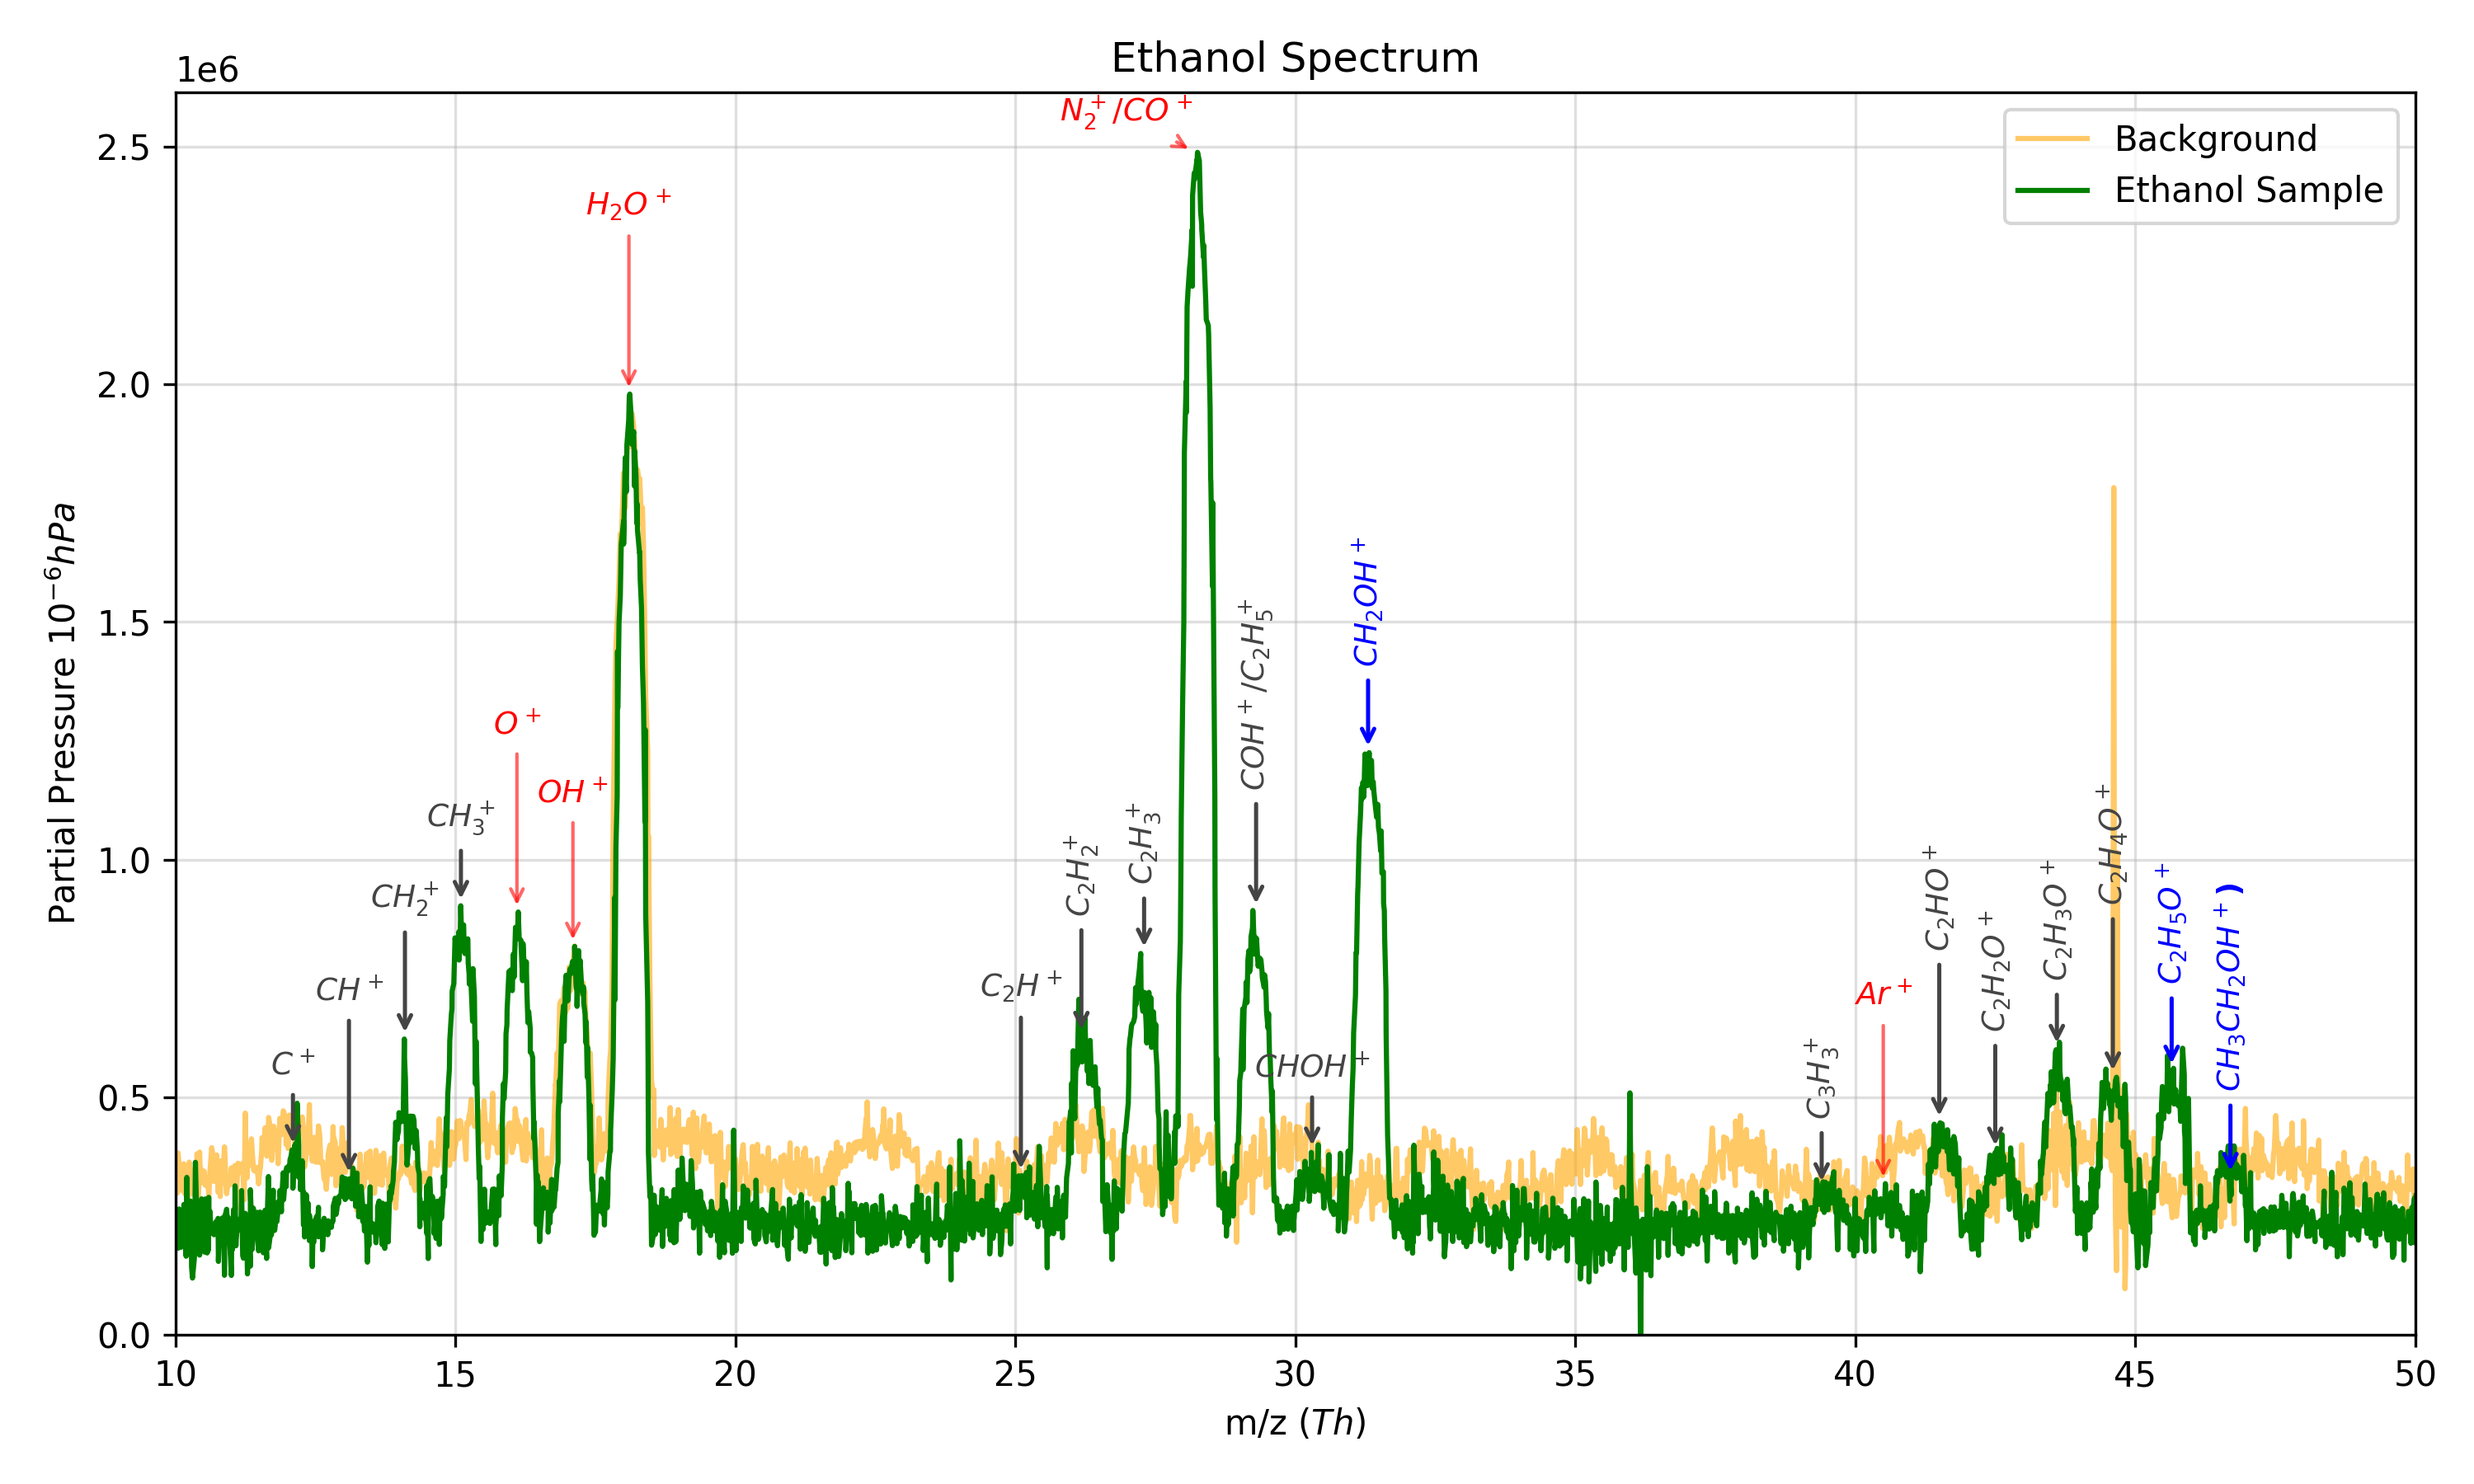
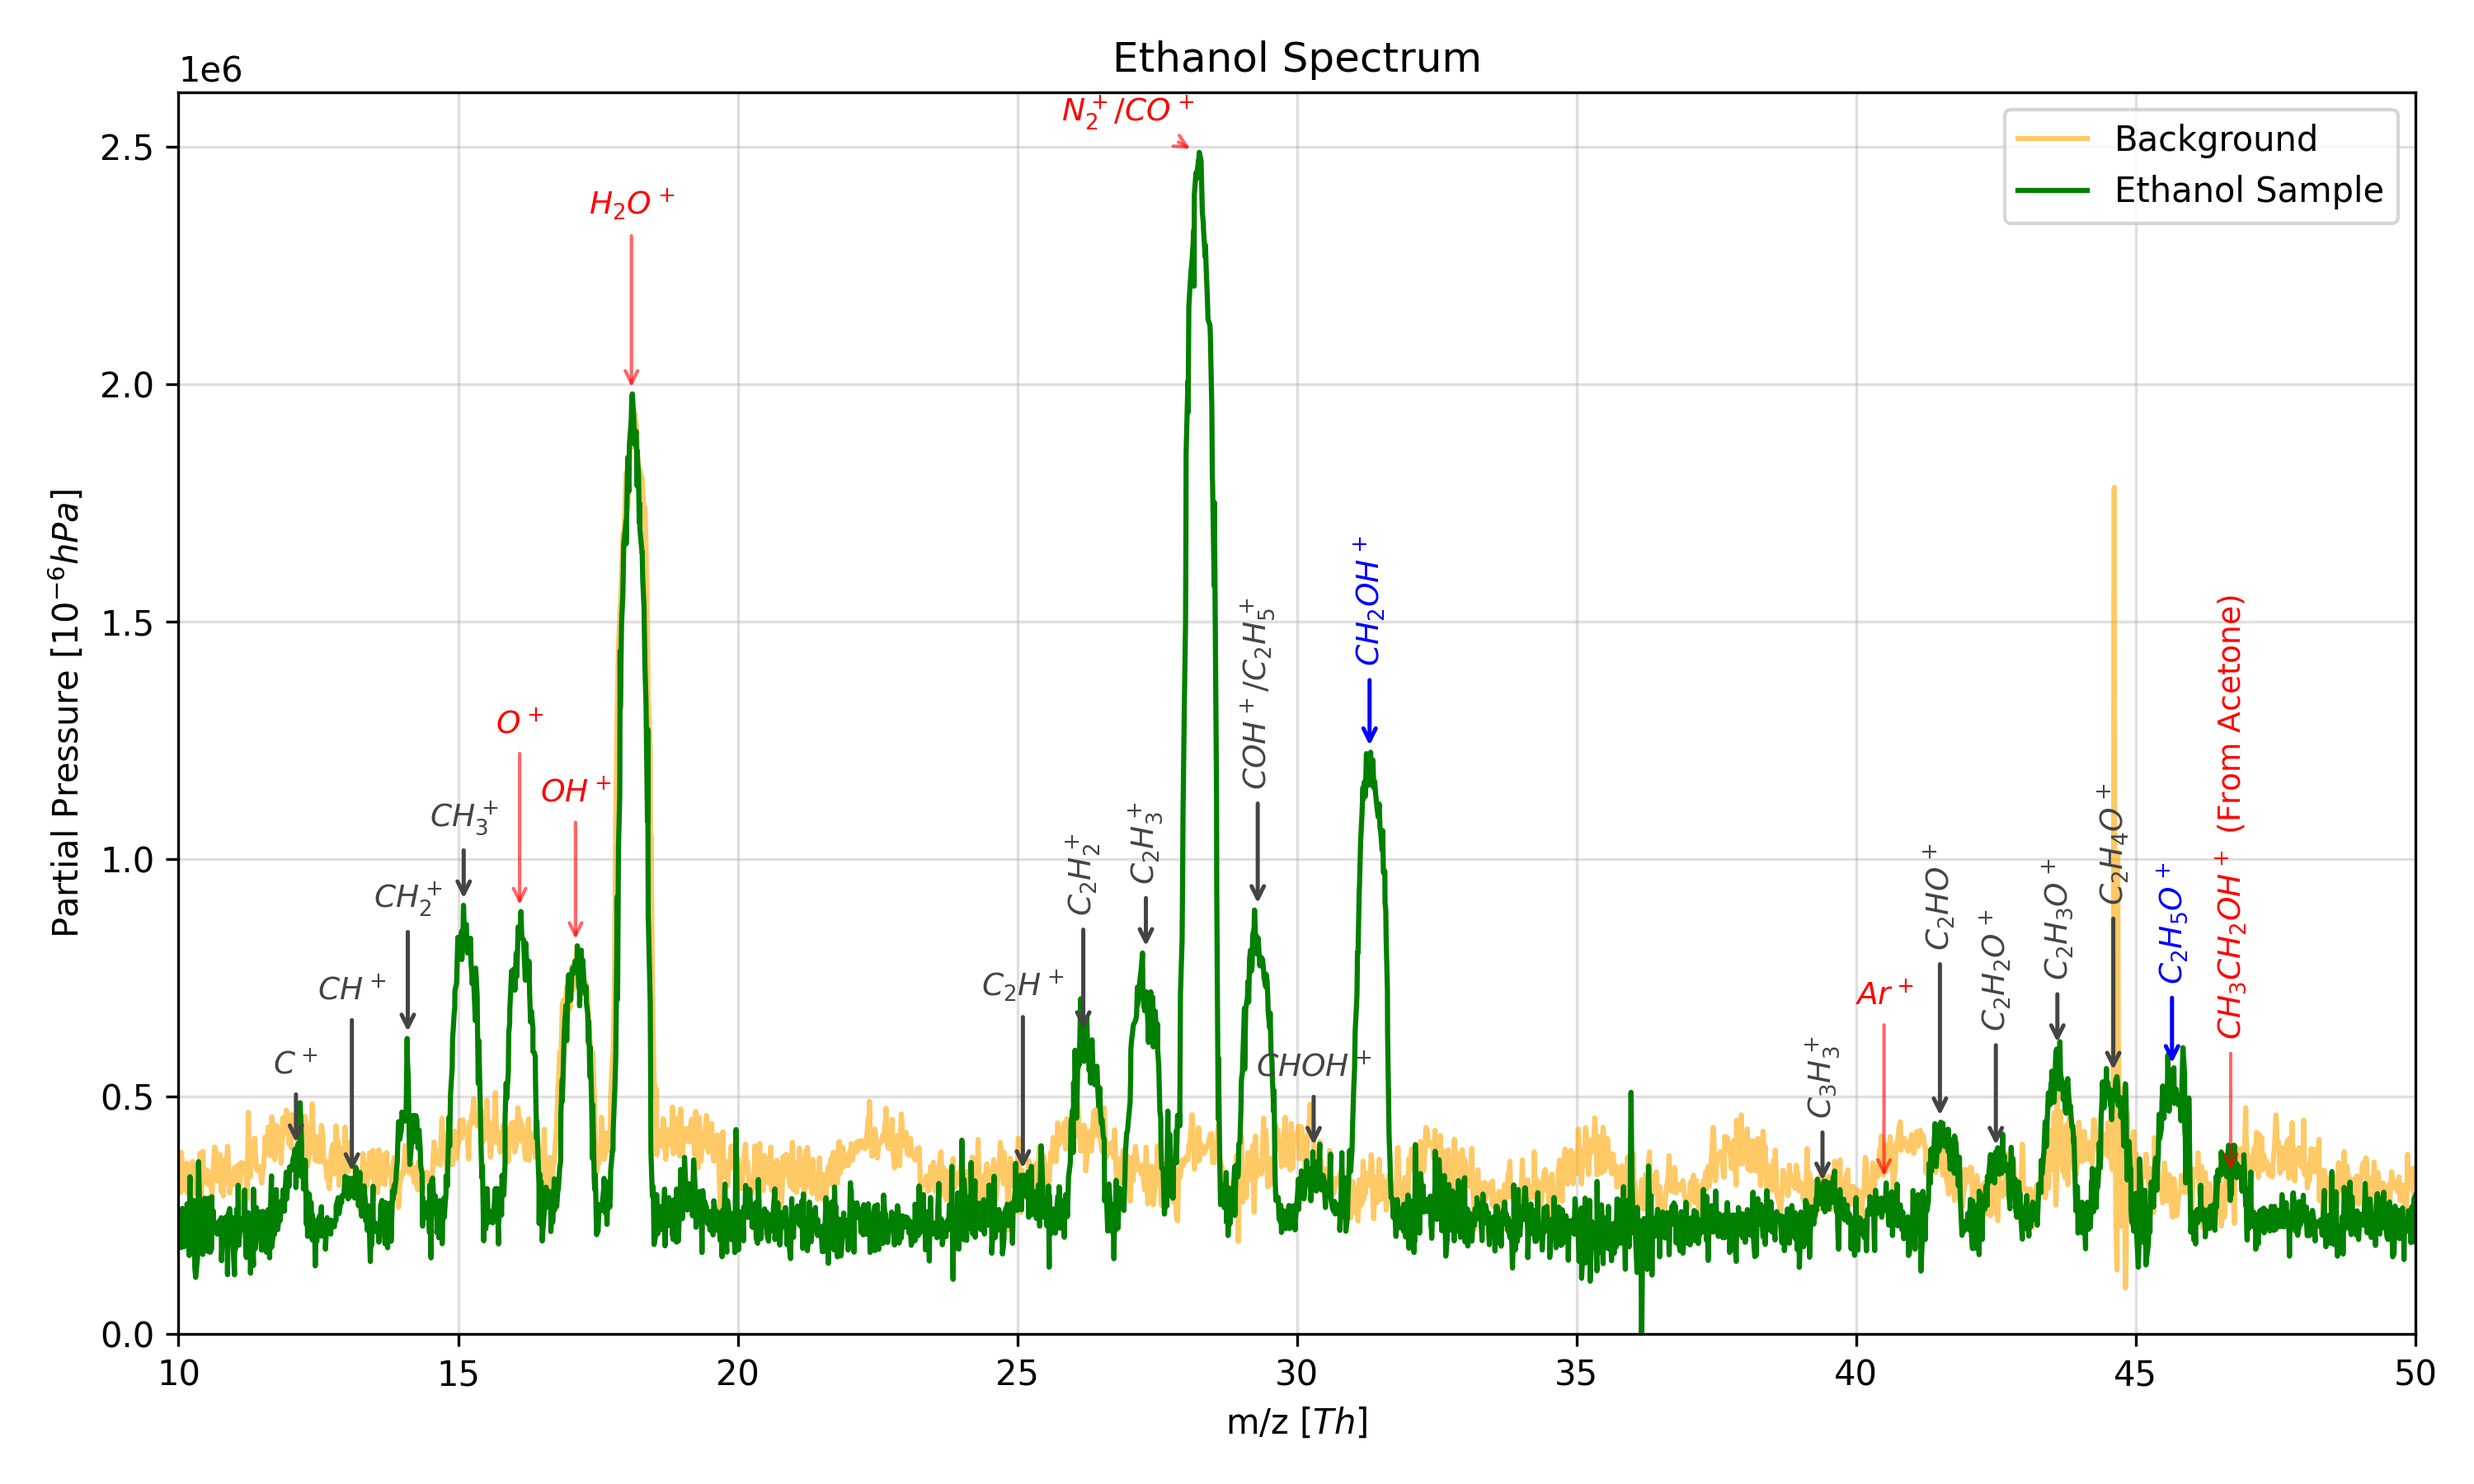
updated plots to use better labeling

diff --git a/resources/task_5_6.py b/resources/task_5_6.py
@@ -6,18 +6,63 @@ from utils import load_spectrum
 
 # Import Files
 FILES = [
-    ('$U_{FA}=112.9$' ,'FP10_qmf260114_018_air_sp10_em-10_p15e-5_ufa1129.txt', 112.9),
-    ('$U_{FA}=98.1$' ,'FP10_qmf260114_019_air_sp10_em-10_p15e-5_ufa981.txt', 98.1),
-    ('$U_{FA}=83.0$' ,'FP10_qmf260114_020_air_sp10_em-10_p15e-5_ufa830.txt', 83.0),
-    ('$U_{FA}=62.9$' ,'FP10_qmf260114_021_air_sp10_em-10_p15e-5_ufa629.txt', 62.9),
-    ('$U_{FA}=43.1$' ,'FP10_qmf260114_022_air_sp10_em-10_p15e-5_ufa431.txt', 43.1),
-    ('$U_{FA}=23.1$' ,'FP10_qmf260114_023_air_sp10_em-10_p15e-5_ufa231.txt', 23.1),
-    ('$U_{FA}=3.0$' ,'FP10_qmf260114_024_air_sp10_em-10_p15e-5_ufa30.txt', 3.0),
+    ('$U_{FA}=112.9, U_{B}=$' ,'FP10_qmf260114_018_air_sp10_em-10_p15e-5_ufa1129.txt', 112.9),
+    ('$U_{FA}=98.1, U_{B}=$' ,'FP10_qmf260114_019_air_sp10_em-10_p15e-5_ufa981.txt', 98.1),
+    ('$U_{FA}=83.0, U_{B}=$' ,'FP10_qmf260114_020_air_sp10_em-10_p15e-5_ufa830.txt', 83.0),
+    ('$U_{FA}=62.9, U_{B}=$' ,'FP10_qmf260114_021_air_sp10_em-10_p15e-5_ufa629.txt', 62.9),
+    ('$U_{FA}=43.1, U_{B}=$' ,'FP10_qmf260114_022_air_sp10_em-10_p15e-5_ufa431.txt', 43.1),
+    ('$U_{FA}=23.1, U_{B}=$' ,'FP10_qmf260114_023_air_sp10_em-10_p15e-5_ufa231.txt', 23.1),
+    ('$U_{FA}=3.0, U_{B}=$' ,'FP10_qmf260114_024_air_sp10_em-10_p15e-5_ufa30.txt', 3.0),
 ]
+
+# Constants
+GAIN = 1e-10
+U_FR = 113 # Volts
+
 
 def run_acceleration_overlay():
     print("--- TASK 5.6: Acceleration Overlay ---")
 
-U_FR = 113 # Volts
+    plt.figure(figsize=(10, 6))
 
-u_b = U_FR - u_fa
+
+    for label, filename, u_fa in FILES:
+        # Calculate U_B
+        u_b = U_FR - u_fa
+
+
+        # Add U_B to label
+        label = label + f"{u_b:.1f}"
+
+        # Create the path
+        path = os.path.join(DATA_DIR, filename)
+        
+        # Load Data
+        m, i_raw = load_spectrum(path)
+        
+        if len(m) == 0:
+            print(f"Warning: Empty file {filename}")
+            continue
+        
+        i_amps = i_raw * GAIN
+        ground_level = np.percentile(i_amps, 10)
+        i_normalized = i_amps - ground_level
+
+        plt.plot(m, i_normalized, label=label, lw=1.2, alpha=0.8)
+
+        # Formatting
+    plt.xlabel('m/z $[Th]$')
+    plt.ylabel('Partial Pressure $[10^{-6}hPa]$')
+    plt.xlim(10,48)
+    plt.ylim(0)
+    plt.legend()
+    plt.grid(True, which="both", ls="-", alpha=0.4)
+    plt.tight_layout()
+    
+    save_path = 'task_5_6_acceleration_overlay.png'
+    plt.savefig(save_path, dpi=300)
+    print(f"  > Saved: {save_path}")
+    plt.show()
+
+if __name__ == "__main__":
+    run_acceleration_overlay()

diff --git a/resources/task_5_2.py b/resources/task_5_2.py
@@ -27,7 +27,7 @@ def run_task_5_2():
     # 1. Main Acetone Peaks (Parent + Base + Methyl)
     # These get prominent labels (Black, bold)
     peaks = [
-        (59.0, '$M^+$'),             # Acetone Parent (CH3-CO-CH3+)
+        (59.0, '$CH_3COCH_3^+ (M^+)$'),             # Acetone Parent (CH3-CO-CH3+)
         (43.6, '$CH_3CO^+$'),        # Acetone Base Peak
         (15.1, '$CH_3^+$')           # Methyl Group
     ]
@@ -71,7 +71,7 @@ def run_task_5_2():
                 txt, 
                 xy=(mass, h), 
                 color='blue',
-                xytext=(-10, 30),              # Position text 30 points above the peak
+                xytext=(-30, 30),              # Position text 30 points above the peak
                 textcoords='offset points',  # Use relative offset instead of absolute scaling
                 arrowprops=dict(
                     arrowstyle='->',         # Slimmer, cleaner arrow head
@@ -126,8 +126,8 @@ def run_task_5_2():
     plt.xlim(10, 60)
     plt.ylim(0)
     plt.title('Acetone Spectrum')
-    plt.xlabel('m/z ($Th$)')
-    plt.ylabel('Partial Pressure $10^{-6}hPa$')
+    plt.xlabel('m/z $[Th]$')
+    plt.ylabel('Partial Pressure $[10^{-6}hPa]$')
     plt.legend()
     plt.grid(True, alpha=0.5)
     plt.tight_layout()

diff --git a/Evaluation/Evaluation_QMS.tex b/Evaluation/Evaluation_QMS.tex
@@ -655,7 +655,13 @@ The values from Table~\ref{tab:fwhm_results} were plotted for linear analysis (F
   \caption{Comparison of mass resolution trends. Lower resolution settings (Res 2, 3) exhibit a strong slope ($\Delta m$ increases with $m$), indicating constant $U/V$ ratio operation. High resolution settings (Res 6) show a flatter trend, indicating constant peak width operation.}\label{fig:res_trend}
 \end{figure}
 
-\subsection{Acceleration-Voltage Series in Air}
+\subsection{Acceleration-Voltage Analysis}
+
+\begin{figure}[H]
+  \centering
+  \includegraphics[width=0.9\linewidth]{../resources/task_5_6_acceleration_overlay.png}
+  \caption{Comparision of different $U_{FA}$ voltages for the air spectrum measurement at normalized pressure. The effect of the electron acceleration in the signal is clearly visible.}\label{fig:acceleration}
+\end{figure}
 
 \begin{itemize}
   \item Overlay the air spectra for the used $U_\mathrm{FA}$ values (112.9, 98.0, 83.0, 63.0, 43.0, 23.0, 3.0 V) and compute $U_\mathrm{B}=U_\mathrm{FR}-U_\mathrm{FA}$ for each case

diff --git a/resources/task_5_3.py b/resources/task_5_3.py
@@ -26,7 +26,7 @@ def run_task_5_3():
     # --- PEAK DATA: (Mass, Label, Is_Impurity) ---
     peak_data = [
         # --- C2HxO+ Group (46-41) ---
-        (46.7, '$CH_3CH_2OH^+$)', False), # Parent
+        (46.7, '$CH_3CH_2OH^+$ (From Acetone)', True), # Parent
         (45.65, '$C_2H_5O^+$', False),          # M - H
         (44.6, '$C_2H_4O^+$', False),
         (43.6, '$C_2H_3O^+$', False),
@@ -115,8 +115,8 @@ def run_task_5_3():
     plt.xlim(10, 50)
     plt.ylim(0)
     plt.title('Ethanol Spectrum')    
-    plt.xlabel('m/z ($Th$)')
-    plt.ylabel('Partial Pressure $10^{-6}hPa$')
+    plt.xlabel('m/z $[Th]$')
+    plt.ylabel('Partial Pressure $[10^{-6}hPa]$')
     plt.legend()
     plt.grid(True, alpha=0.4)
     plt.tight_layout()

diff --git a/resources/task_5_5.py b/resources/task_5_5.py
@@ -36,8 +36,8 @@ def run_resolution_overlay():
         plt.plot(m, i_normalized, label=label, lw=1.2, alpha=0.8)
 
     # Formatting
-    plt.xlabel('m/z ($Th$)')
-    plt.ylabel('Partial Pressure $10^{-6}hPa$')
+    plt.xlabel('m/z $[Th]$')
+    plt.ylabel('Partial Pressure $[10^{-6}hPa]$')
     plt.xlim(10,48)
     plt.ylim(0)
     plt.legend()

diff --git a/resources/task_5_1.py b/resources/task_5_1.py
@@ -61,8 +61,8 @@ def run_task_5_1():
     plt.xlim(10, 50)
     plt.ylim(0)
     plt.title('Argon Spectrum')
-    plt.xlabel('m/z ($Th$)')
-    plt.ylabel('Partial Pressure $10^{-6}hPa$')
+    plt.xlabel('m/z $[Th]$')
+    plt.ylabel('Partial Pressure $[10^{-6}hPa]$')
     plt.legend()
     plt.grid(True, alpha=0.5)
     plt.tight_layout()

diff --git a/resources/task_5_4.py b/resources/task_5_4.py
@@ -67,8 +67,8 @@ def run_task_5_4():
 
     plt.xlim(10, 50)
     plt.title('Air Spectrum Composition')
-    plt.xlabel('m/z ($Th$)')
-    plt.ylabel('Partial Pressure $10^{-6}hPa$')
+    plt.xlabel('m/z $[Th]$')
+    plt.ylabel('Partial Pressure $[10^{-6}hPa]$')
     plt.legend()
     plt.grid(True, alpha=0.4)
     plt.tight_layout()
